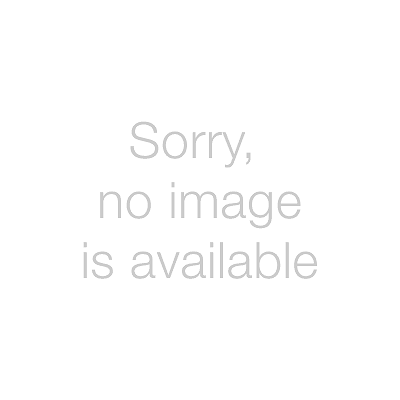
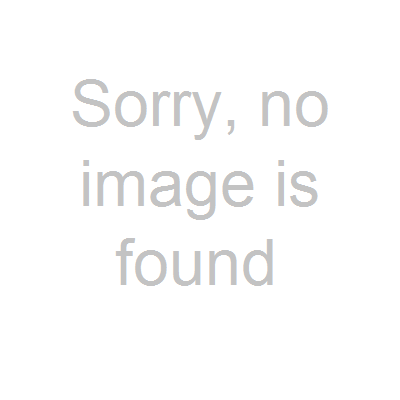
FIX: readme and minor fixes

Changed region(s): [[0.18, 0.18, 0.81, 0.57], [0.21, 0.57, 0.81, 0.72], [0.63, 0.21, 0.84, 0.33]]

diff --git a/js/app.js b/js/app.js
@@ -22,7 +22,7 @@ function init() {
                 flickrSearchString: 'ice%20battle%20pskov',
                 imgSrc : '',
                 imgAttribution : '',
-                latlng : {lat: 57.830768, lng: 28.319158},
+                latlng : {lat: 57.847602, lng: 28.270506},
             },
             {
                 name : 'Holy Transfiguration Mirozh Monastery',
@@ -201,7 +201,7 @@ function init() {
 
                     //open infovindow with spinner and default text
                     that.populateInfoWindow(thisMarker, that.largeInfowindow, 'css/spinner.gif', '#')
-                    
+
                     //perform Flickr search for location
                     //send request
                     $.ajax({
@@ -233,8 +233,8 @@ function init() {
 
                         error:function(){
 
-                            //update infowindow with "no image" picture
-                            that.populateInfoWindow(thisMarker, that.largeInfowindow, 'img/noimage.png', '#')
+                            //update infowindow with "no flickr" picture
+                            that.populateInfoWindow(thisMarker, that.largeInfowindow, 'img/noflickr.png', '#')
 
                         }
                     });

diff --git a/README.md b/README.md
@@ -1,0 +1,27 @@
+##Visit Pskov! Neighborhood Map
+Author: Ilya Fedorov
+
+### Getting started
+
+Open index.html in a web browser (Tested with Google Chrome v54)
+
+This application shows interesting locations in Pskov, Russia
+
+### Functionality of the page
+
+1. List of interesting sights of Pskov. Click on item to highlight its location.
+2. Location list filter. Enter filter word (case-insensitive) and press enter or push Submit button.
+3. Select list item or click on map marker to open an Info window. Flickr images will be searched and, if found, photo of the sight will be displayed.
+4. Google Map area has standard functionality (map type toggle, pan/zoom/street view mode).
+
+### References
+
+Front-End Web Developer Nanodegree Program:
+https://classroom.udacity.com/nanodegrees/nd001/
+
+Sources of code snippets:
+
+http://api.jquery.com/
+http://knockoutjs.com/documentation/introduction.html
+https://www.flickr.com/services/api/
+https://developers.google.com/maps/documentation/javascript/
